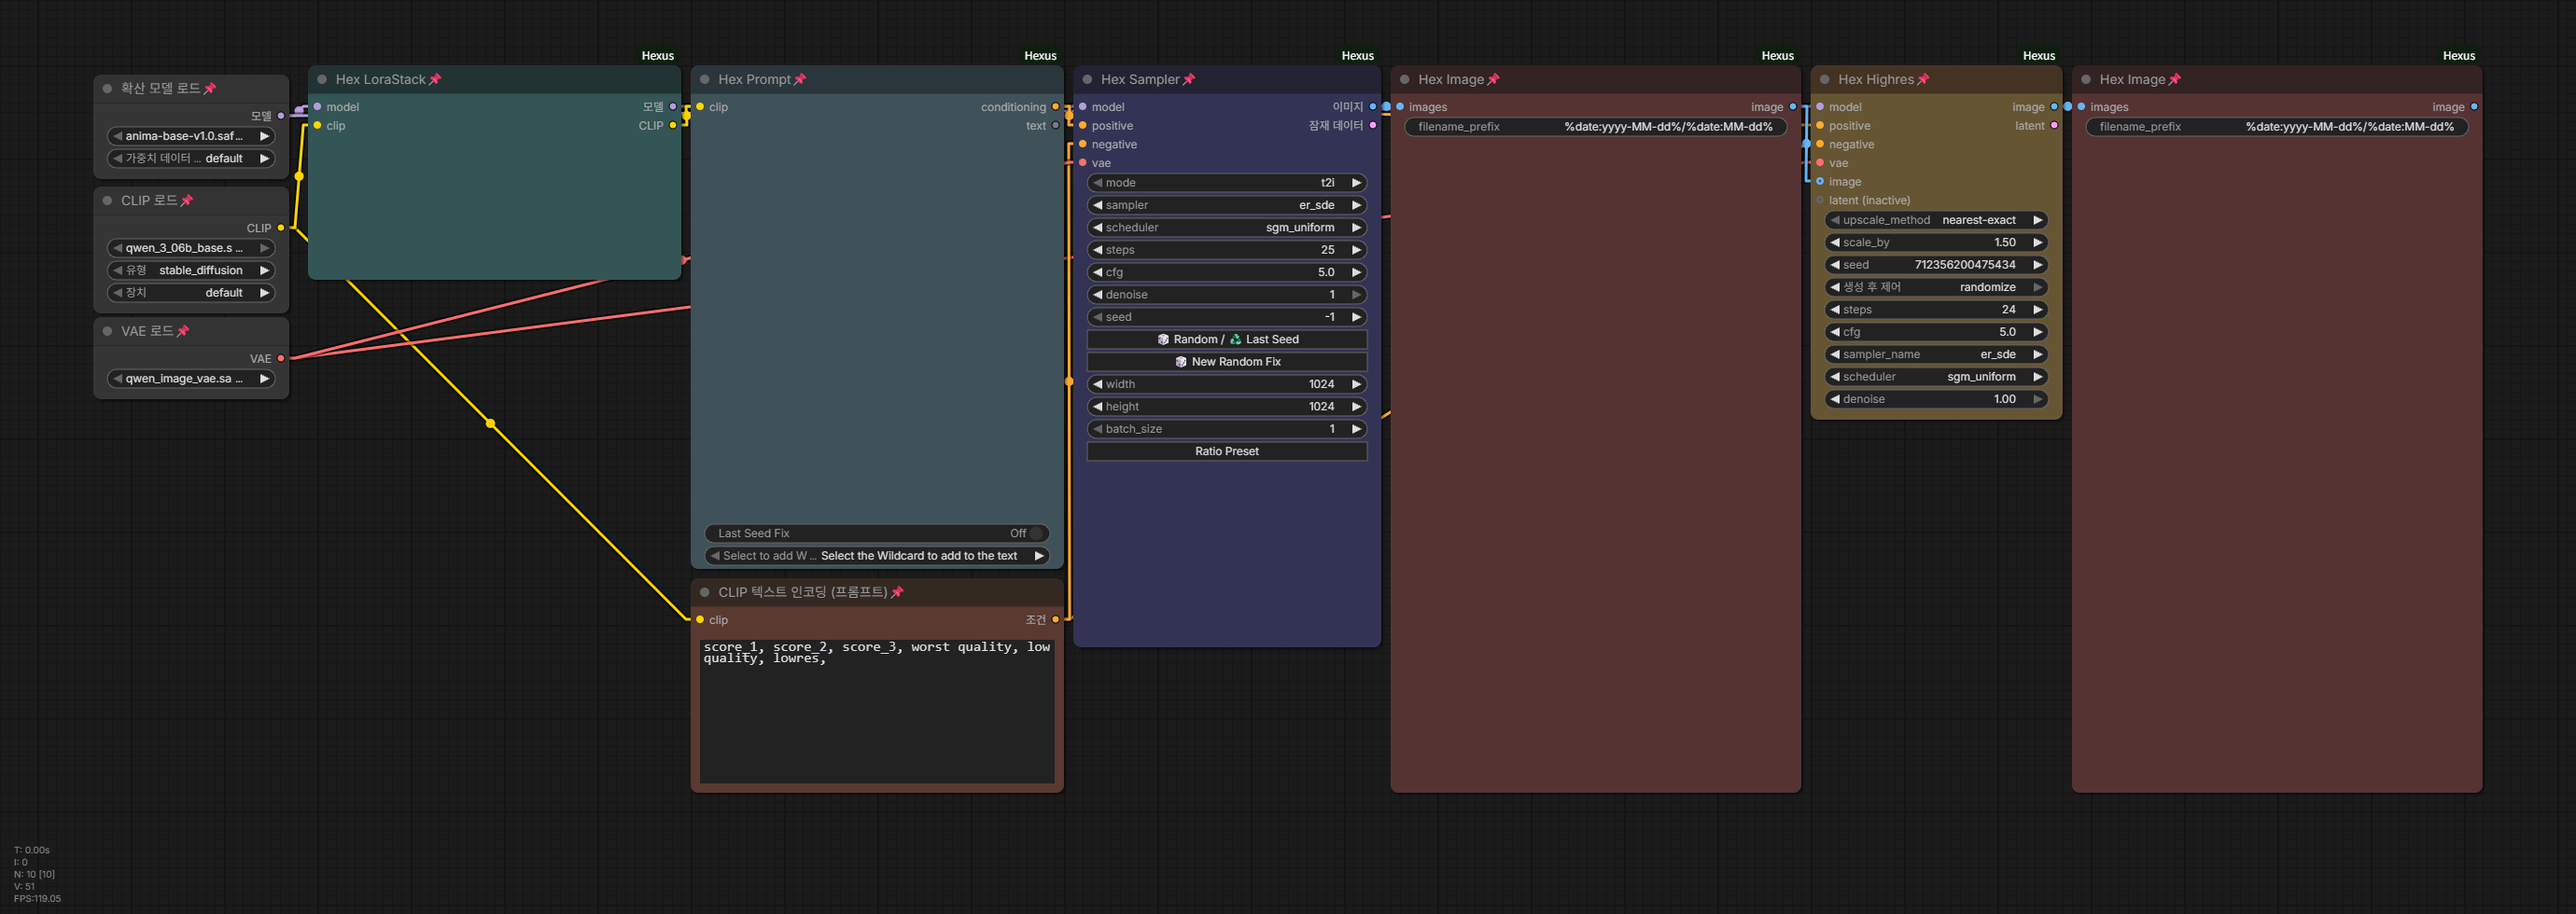
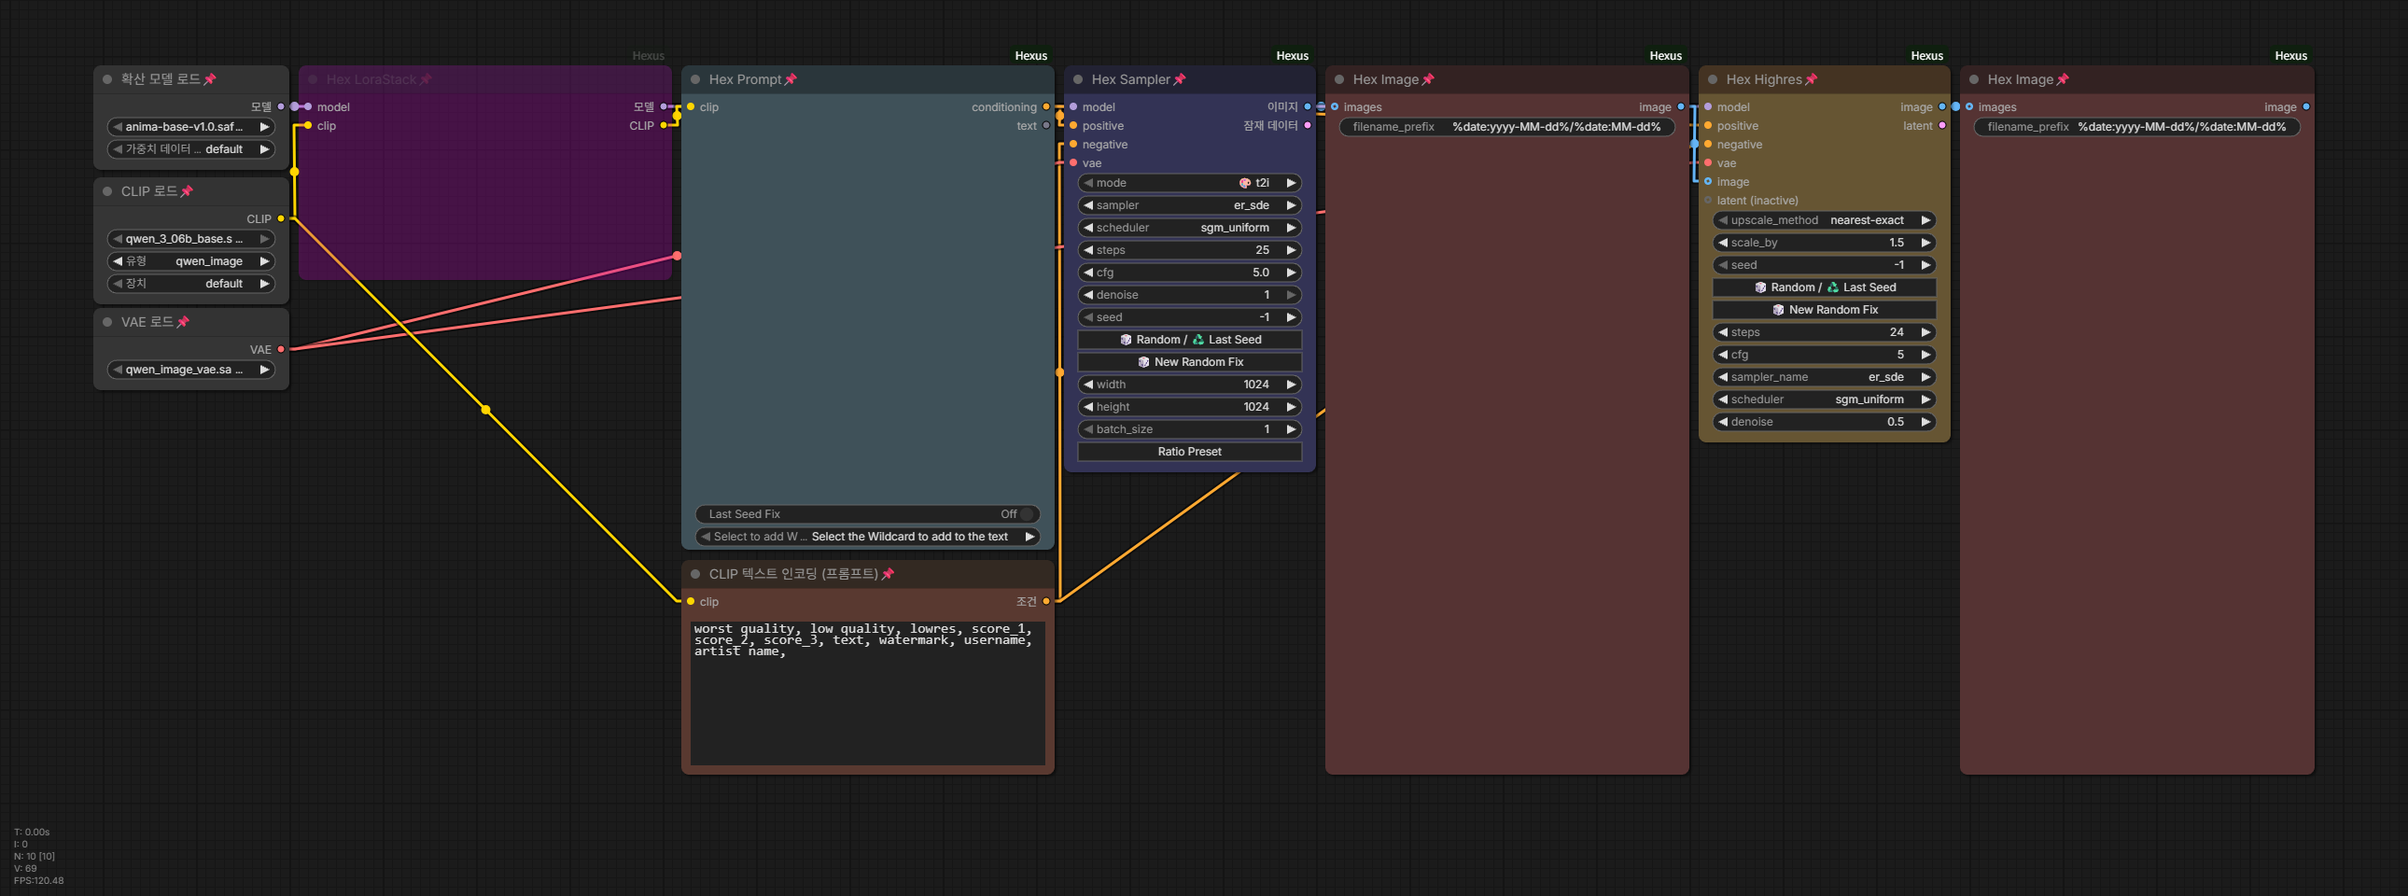
[FIX] Image/Highres

diff --git a/web/HexImage.js b/web/HexImage.js
@@ -9,13 +9,13 @@ function currentPreview(node) {
 }
 
 
-function samplerForImage(node) {
+function previewSourceForImage(node) {
     const graph = node.graph ?? app.graph;
     const linkId = node.inputs?.find((input) => input.name === "images")?.link;
     if (linkId == null) return null;
     const link = graph?._links?.get?.(linkId) ?? graph?.links?.[linkId];
-    const sampler = link && graph?.getNodeById?.(link.origin_id);
-    return sampler?.type === "HexSampler" ? sampler : null;
+    const source = link && graph?.getNodeById?.(link.origin_id);
+    return source?.type === "HexSampler" || source?.type === "HexHighres" ? source : null;
 }
 
 
@@ -61,12 +61,12 @@ function showStepPreview(node, blob) {
 }
 
 
-function showSamplerPreview(blob, ids) {
+function showSamplingPreview(blob, ids) {
     const matchingIds = ids.map(String);
     for (const node of app.graph?._nodes ?? []) {
         if (node.type !== "HexImage" || node.properties?.hexusStepPreview === false) continue;
-        const sampler = samplerForImage(node);
-        if (sampler && matchingIds.includes(String(sampler.id))) showStepPreview(node, blob);
+        const source = previewSourceForImage(node);
+        if (source && matchingIds.includes(String(source.id))) showStepPreview(node, blob);
     }
 }
 
@@ -265,6 +265,15 @@ app.registerExtension({
             this.hexusPreviews = [];
             this.properties ||= {};
             this.properties.hexusStepPreview ??= true;
+            for (const name of ["cache_mode", "cached_images"]) {
+                const widget = this.widgets?.find((item) => item.name === name);
+                if (!widget) continue;
+                widget.hidden = true;
+                widget.options ||= {};
+                widget.options.hidden = true;
+                widget.type = "hexus-hidden";
+                widget.computeSize = () => [0, -4];
+            }
             const prefix = this.widgets?.find((widget) => widget.name === "filename_prefix");
             if (prefix && this.addDOMWidget) addActionButtons(this, prefix);
         };
@@ -272,6 +281,7 @@ app.registerExtension({
         const onConfigure = nodeType.prototype.onConfigure;
         nodeType.prototype.onConfigure = function () {
             onConfigure?.apply(this, arguments);
+            this.hexusPreviews = this.properties?.hexusCachedImages ?? [];
             this.hexusSyncPreviewToggle?.();
         };
 
@@ -280,6 +290,7 @@ app.registerExtension({
             clearStepPreview(this);
             onExecuted?.apply(this, arguments);
             this.hexusPreviews = message?.images ?? [];
+            this.properties.hexusCachedImages = this.hexusPreviews;
         };
 
         const onRemoved = nodeType.prototype.onRemoved;
@@ -289,17 +300,35 @@ app.registerExtension({
         };
     },
     setup() {
+        const queuePrompt = api.queuePrompt;
+        api.queuePrompt = function (index, prompt, options, ...args) {
+            const targets = options?.partialExecutionTargets;
+            const partial = Array.isArray(targets) && targets.length > 0;
+            const selectedNodes = app.canvas?.selected_nodes ?? {};
+            for (const [id, entry] of Object.entries(prompt?.output ?? {})) {
+                if (entry.class_type !== "HexImage") continue;
+                const node = app.graph?.getNodeById(Number(id));
+                const workflowNode = prompt.workflow?.nodes?.find((item) => String(item.id) === id);
+                const cached = node?.hexusPreviews?.length ? node.hexusPreviews
+                    : workflowNode?.properties?.hexusCachedImages ?? [];
+                const sourceId = entry.inputs.images?.[0];
+                entry.inputs.cache_mode = partial && !selectedNodes[sourceId];
+                if (entry.inputs.cache_mode) delete entry.inputs.images;
+                entry.inputs.cached_images = JSON.stringify(cached);
+            }
+            return queuePrompt.call(this, index, prompt, options, ...args);
+        };
         let executingNodeId = null;
         api.addEventListener("executing", (event) => {
             executingNodeId = event.detail ?? null;
         });
         api.addEventListener("b_preview_with_metadata", (event) => {
             const { blob, nodeId, displayNodeId, node_id, display_node_id } = event.detail ?? {};
-            showSamplerPreview(blob, [nodeId, displayNodeId, node_id, display_node_id].filter((id) => id != null));
+            showSamplingPreview(blob, [nodeId, displayNodeId, node_id, display_node_id].filter((id) => id != null));
         });
         api.addEventListener("b_preview", (event) => {
             if (api.serverSupportsFeature?.("supports_preview_metadata") || executingNodeId == null) return;
-            showSamplerPreview(event.detail, [executingNodeId]);
+            showSamplingPreview(event.detail, [executingNodeId]);
         });
         const clearAll = () => {
             executingNodeId = null;

diff --git a/web/HexHighres.js b/web/HexHighres.js
@@ -49,7 +49,8 @@ function setDragSensitivity(node) {
             if (!increments) return;
             dragPixels -= increments * 5;
             const step = dragSteps[name] ?? this.options.step2 ?? (this.options.step ? this.options.step / 10 : 1);
-            this.setValue(this.value + increments * step, { e, node, canvas });
+            const value = this.value + increments * step;
+            this.setValue(name === "denoise" ? Number(value.toFixed(10)) : value, { e, node, canvas });
         };
     }
 }
@@ -74,12 +75,22 @@ app.registerExtension({
         const originalCreated = nodeType.prototype.onNodeCreated;
         nodeType.prototype.onNodeCreated = function () {
             originalCreated?.apply(this, arguments);
+            this.imgs = undefined;
+            this.onDrawBackground = () => {};
             for (const widget of this.widgets ?? []) {
                 if (widget.options) delete widget.options.tooltip;
                 delete widget.tooltip;
             }
             for (const input of this.inputs ?? []) delete input.tooltip;
             setDragSensitivity(this);
+            const stepPreviewWidget = this.widgets?.find((widget) => widget.name === "step_preview");
+            if (stepPreviewWidget) {
+                stepPreviewWidget.hidden = true;
+                stepPreviewWidget.options ||= {};
+                stepPreviewWidget.options.hidden = true;
+                stepPreviewWidget.type = "hexus-hidden";
+                stepPreviewWidget.computeSize = () => [0, -4];
+            }
             const seedWidget = this.widgets?.find((widget) => widget.name === "seed");
             const controlIndex = this.widgets?.findIndex((widget) => widget.name === "control_after_generate") ?? -1;
             if (controlIndex !== -1) this.widgets.splice(controlIndex, 1);
@@ -134,8 +145,20 @@ app.registerExtension({
         const queuePrompt = api.queuePrompt;
         api.queuePrompt = async function (index, prompt, ...args) {
             const queued = [];
+            const stepPreviewHighres = new Set();
+            for (const [imageId, entry] of Object.entries(prompt?.output ?? {})) {
+                if (entry.class_type !== "HexImage") continue;
+                const source = entry.inputs?.images;
+                if (!Array.isArray(source) || Number(source[1]) !== 0) continue;
+                const workflowNode = prompt.workflow?.nodes?.find((item) => String(item.id) === imageId);
+                const canvasNode = app.graph?.getNodeById(Number(imageId));
+                const enabled = canvasNode?.properties?.hexusStepPreview
+                    ?? workflowNode?.properties?.hexusStepPreview ?? true;
+                if (enabled) stepPreviewHighres.add(String(source[0]));
+            }
             for (const [id, entry] of Object.entries(prompt?.output ?? {})) {
                 if (entry.class_type !== "HexHighres") continue;
+                entry.inputs.step_preview = stepPreviewHighres.has(id);
                 if (Array.isArray(entry.inputs.seed)) continue;
                 const seed = Number(entry.inputs.seed);
                 if (!Number.isFinite(seed)) continue;

diff --git a/HexImage.py b/HexImage.py
@@ -1,11 +1,15 @@
 import asyncio
+import json
 import os
+import re
 import shutil
 
 import folder_paths
 from aiohttp import web
 from PIL import Image
-from nodes import PreviewImage
+import torch
+from comfy_execution.graph_utils import ExecutionBlocker
+from nodes import LoadImage, PreviewImage
 from server import PromptServer
 
 
@@ -14,10 +18,14 @@ class HexImage:
     def INPUT_TYPES(cls):
         return {
             "required": {
-                "images": ("IMAGE",),
                 "filename_prefix": ("STRING", {"default": "%date:yyyy-MM-dd%/%date:MM-dd%"}),
             },
-            "hidden": {"prompt": "PROMPT", "extra_pnginfo": "EXTRA_PNGINFO"},
+            "optional": {
+                "images": ("IMAGE",),
+                "cache_mode": ("BOOLEAN", {"default": False}),
+                "cached_images": ("STRING", {"default": "[]"}),
+            },
+            "hidden": {"prompt": "PROMPT", "extra_pnginfo": "EXTRA_PNGINFO", "unique_id": "UNIQUE_ID"},
         }
 
     RETURN_TYPES = ("IMAGE",)
@@ -26,9 +34,42 @@ class HexImage:
     OUTPUT_NODE = True
     CATEGORY = "Hexus"
 
-    def preview(self, images, filename_prefix, prompt=None, extra_pnginfo=None):
-        # The temporary PNG is the preview and the source for an explicit Save click.
-        return PreviewImage().save_images(images, prompt=prompt, extra_pnginfo=extra_pnginfo)
+    def preview(self, filename_prefix, images=None, cache_mode=False, cached_images="[]",
+                prompt=None, extra_pnginfo=None, unique_id=None):
+        if cache_mode:
+            try:
+                items = json.loads(cached_images)
+                pixels = load_temp_images(items, unique_id)
+            except (FileNotFoundError, OSError, ValueError, TypeError):
+                return {"ui": {"images": []}, "result": (ExecutionBlocker(None),)}
+            return {"ui": {"images": items}, "result": (pixels,)}
+
+        if images is None:
+            return {"ui": {"images": []}, "result": (ExecutionBlocker(None),)}
+        preview = PreviewImage()
+        preview.prefix_append = ""
+        saved = preview.save_images(images, filename_prefix=f"hi#{safe_node_id(unique_id)}-temp",
+                                    prompt=prompt, extra_pnginfo=extra_pnginfo)
+        items = saved["ui"]["images"]
+        return {"ui": saved["ui"], "result": (load_temp_images(items, unique_id),)}
+
+
+def safe_node_id(unique_id):
+    return re.sub(r"[^A-Za-z0-9_-]", "_", str(unique_id))
+
+
+def load_temp_images(items, unique_id):
+    if not isinstance(items, list) or not items:
+        raise ValueError("No cached images")
+    prefix = f"hi#{safe_node_id(unique_id)}-temp_"
+    pixels = []
+    for item in items:
+        if not isinstance(item, dict) or not isinstance(item.get("filename"), str) or not item["filename"].startswith(prefix):
+            raise ValueError("Cached image belongs to another Hex Image node")
+        path = preview_path(item)
+        relative = os.path.relpath(path, folder_paths.get_temp_directory())
+        pixels.append(LoadImage().load_image(f"{relative} [temp]")[0])
+    return torch.cat(pixels, dim=0)
 
 
 def preview_path(item):

diff --git a/Hexus.py b/Hexus.py
@@ -251,6 +251,7 @@ class HexHighres:
             "optional": {
                 "image": ("IMAGE",),
                 "latent": ("LATENT",),
+                "step_preview": ("BOOLEAN", {"default": False}),
             },
         }
 
@@ -264,15 +265,21 @@ class HexHighres:
         return secrets.randbelow(1125899906842624) if seed == -1 else seed
 
     def generate(self, model, positive, negative, vae, upscale_method, scale_by,
-                 seed, steps, cfg, sampler_name, scheduler, denoise, image=None, latent=None):
+                 seed, steps, cfg, sampler_name, scheduler, denoise, image=None, latent=None,
+                 step_preview=False):
         if seed == -1:
             seed = secrets.randbelow(1125899906842624)
         if (image is None) == (latent is None):
             raise ValueError("Hex Highres: connect exactly one of image or latent")
         source = VAEEncode().encode(vae, image)[0] if image is not None else latent
         enlarged = LatentUpscaleBy().upscale(source, upscale_method, scale_by)[0]
-        sampled = KSampler().sample(model, seed, steps, cfg, sampler_name, scheduler,
-                                    positive, negative, enlarged, denoise)[0]
+        previous_preview_method = args.preview_method
+        latent_preview.set_preview_method("auto" if step_preview else "none")
+        try:
+            sampled = KSampler().sample(model, seed, steps, cfg, sampler_name, scheduler,
+                                        positive, negative, enlarged, denoise)[0]
+        finally:
+            args.preview_method = previous_preview_method
         result = VAEDecode().decode(vae, sampled)[0]
         return (result, sampled)
 
